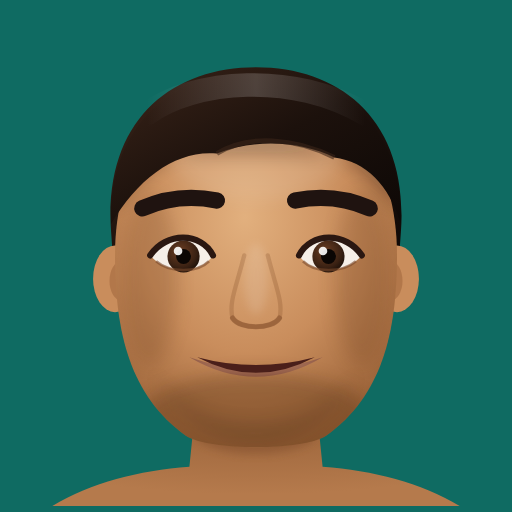
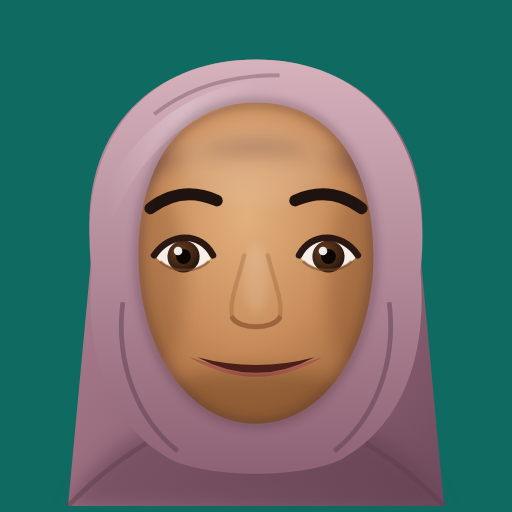
v1.5.0: Nara perempuan berhijab + ikon baru
Claude-Session: https://claude.ai/code/session_01MYJwr1VfoWsd2GyhHBrFqM

diff --git a/index.html b/index.html
@@ -134,66 +134,66 @@ textarea{flex:1;min-width:0;resize:none;border:1px solid var(--line);border-radi
       <svg class="face" id="face" viewBox="0 0 120 120" role="img" aria-label="Wajah Nara">
         <defs>
           <radialGradient id="skinG" cx="46%" cy="36%" r="68%"><stop offset="0" stop-color="#e2b07e"/><stop offset=".55" stop-color="#c98d5c"/><stop offset="1" stop-color="#9a6238"/></radialGradient>
-          <radialGradient id="neckG" cx="50%" cy="0%" r="90%"><stop offset="0" stop-color="#8f5a33"/><stop offset="1" stop-color="#b57a4c"/></radialGradient>
-          <linearGradient id="hairG" x1="0" y1="0" x2="1" y2="1"><stop offset="0" stop-color="#3a2419"/><stop offset=".5" stop-color="#1c110c"/><stop offset="1" stop-color="#0d0806"/></linearGradient>
-          <linearGradient id="hairShine" x1="0" y1="0" x2="1" y2="0"><stop offset="0" stop-color="#ffffff" stop-opacity="0"/><stop offset=".5" stop-color="#ffffff" stop-opacity=".18"/><stop offset="1" stop-color="#ffffff" stop-opacity="0"/></linearGradient>
+          <linearGradient id="hijabG" x1="0" y1="0" x2="1" y2="1"><stop offset="0" stop-color="#b98d9a"/><stop offset=".45" stop-color="#9c6f80"/><stop offset="1" stop-color="#6f4a5c"/></linearGradient>
+          <linearGradient id="hijabInner" x1="0" y1="0" x2="0" y2="1"><stop offset="0" stop-color="#d6b2bd"/><stop offset="1" stop-color="#8e6274"/></linearGradient>
+          <linearGradient id="hijabShine" x1="0" y1="0" x2="1" y2="0"><stop offset="0" stop-color="#ffffff" stop-opacity="0"/><stop offset=".5" stop-color="#ffffff" stop-opacity=".22"/><stop offset="1" stop-color="#ffffff" stop-opacity="0"/></linearGradient>
           <radialGradient id="blushG"><stop offset="0" stop-color="#e2746a" stop-opacity=".55"/><stop offset="1" stop-color="#e2746a" stop-opacity="0"/></radialGradient>
           <radialGradient id="irisG" cx="40%" cy="35%" r="70%"><stop offset="0" stop-color="#6b3d22"/><stop offset=".7" stop-color="#3a2113"/><stop offset="1" stop-color="#1b0f08"/></radialGradient>
-          <radialGradient id="lipG" cx="50%" cy="30%" r="70%"><stop offset="0" stop-color="#b27a60"/><stop offset="1" stop-color="#8a5541"/></radialGradient>
+          <radialGradient id="lipG" cx="50%" cy="30%" r="70%"><stop offset="0" stop-color="#c0715f"/><stop offset="1" stop-color="#8e4a3e"/></radialGradient>
           <filter id="soft" x="-30%" y="-30%" width="160%" height="160%"><feGaussianBlur stdDeviation="2.2"/></filter>
           <filter id="soft1" x="-30%" y="-30%" width="160%" height="160%"><feGaussianBlur stdDeviation="1.1"/></filter>
-          <clipPath id="faceClip"><path d="M60 13 C84 13 96 32 96 56 C96 76 92 92 78 102 C72 106 48 106 42 102 C28 92 24 76 24 56 C24 32 36 13 60 13 Z"/></clipPath>
+          <clipPath id="faceClip"><path d="M60 15 C81 15 92 34 92 56 C92 80 79 101 60 101 C41 101 28 80 28 56 C28 34 39 15 60 15 Z"/></clipPath>
         </defs>
         <g class="face-float">
-          <!-- rambut belakang -->
-          <path d="M23 50 C21 22 38 8 60 8 C82 8 99 22 97 50 L96 64 C95 60 93 54 92 50 L28 50 C27 54 25 60 24 64 Z" fill="url(#hairG)"/>
-          <!-- leher & bahu -->
-          <path d="M45 90 L75 90 L77 110 C90 111 102 114 112 120 L8 120 C18 114 30 111 43 110 Z" fill="url(#neckG)"/>
-          <path d="M45 90 L75 90 L75 103 C68 108 52 108 45 103 Z" fill="#7a4a29" opacity=".45" filter="url(#soft1)"/>
-          <!-- telinga -->
-          <ellipse cx="24" cy="62" rx="5.6" ry="8.5" fill="#c98d5c"/><ellipse cx="25.6" cy="62.5" rx="3" ry="5" fill="#a86d43" opacity=".7"/>
-          <ellipse cx="96" cy="62" rx="5.6" ry="8.5" fill="#c98d5c"/><ellipse cx="94.4" cy="62.5" rx="3" ry="5" fill="#a86d43" opacity=".7"/>
+          <!-- juntaian hijab belakang & bahu -->
+          <path d="M18 56 C14 24 34 6 60 6 C86 6 106 24 102 56 L108 120 L12 120 Z" fill="url(#hijabG)"/>
+          <path d="M12 120 C20 106 30 100 42 98 L78 98 C90 100 100 106 108 120 Z" fill="#5e3e4e" opacity=".5" filter="url(#soft)"/>
           <!-- wajah -->
-          <path d="M60 13 C84 13 96 32 96 56 C96 76 92 92 78 102 C72 106 48 106 42 102 C28 92 24 76 24 56 C24 32 36 13 60 13 Z" fill="url(#skinG)"/>
+          <path d="M60 15 C81 15 92 34 92 56 C92 80 79 101 60 101 C41 101 28 80 28 56 C28 34 39 15 60 15 Z" fill="url(#skinG)"/>
           <g clip-path="url(#faceClip)">
-            <ellipse cx="60" cy="30" rx="22" ry="12" fill="#ffffff" opacity=".10" filter="url(#soft)"/>
-            <ellipse cx="60" cy="98" rx="30" ry="12" fill="#5c3418" opacity=".35" filter="url(#soft)"/>
-            <path d="M30 76 C36 96 48 104 60 104 C72 104 84 96 90 76 C86 92 74 99 60 99 C46 99 34 92 30 76 Z" fill="#2b1a12" opacity=".16" filter="url(#soft)"/>
-            <ellipse cx="33" cy="62" rx="7" ry="22" fill="#6b3d1e" opacity=".22" filter="url(#soft)"/>
-            <ellipse cx="87" cy="62" rx="7" ry="22" fill="#6b3d1e" opacity=".22" filter="url(#soft)"/>
-            <!-- bayangan rambut di dahi -->
-            <path d="M24 44 C34 30 46 26 60 26 C74 26 86 30 96 44 L96 30 L24 30 Z" fill="#1c110c" opacity=".3" filter="url(#soft)"/>
+            <ellipse cx="60" cy="32" rx="20" ry="11" fill="#ffffff" opacity=".10" filter="url(#soft)"/>
+            <ellipse cx="60" cy="96" rx="28" ry="11" fill="#5c3418" opacity=".35" filter="url(#soft)"/>
+            <ellipse cx="35" cy="62" rx="7" ry="22" fill="#6b3d1e" opacity=".25" filter="url(#soft)"/>
+            <ellipse cx="85" cy="62" rx="7" ry="22" fill="#6b3d1e" opacity=".25" filter="url(#soft)"/>
+            <path d="M28 44 C36 32 48 27 60 27 C72 27 84 32 92 44 L92 30 L28 30 Z" fill="#4a2f3b" opacity=".35" filter="url(#soft)"/>
           </g>
           <!-- pipi merona -->
-          <circle class="cheek" data-k="cheekL" cx="38" cy="70" r="9" fill="url(#blushG)" opacity="0"/>
-          <circle class="cheek" data-k="cheekR" cx="82" cy="70" r="9" fill="url(#blushG)" opacity="0"/>
+          <circle class="cheek" data-k="cheekL" cx="39" cy="70" r="9" fill="url(#blushG)" opacity="0"/>
+          <circle class="cheek" data-k="cheekR" cx="81" cy="70" r="9" fill="url(#blushG)" opacity="0"/>
           <!-- hidung -->
           <path d="M57 56 C55 64 53 68 54 72 C56 75 64 75 66 72 C67 68 65 64 63 56" fill="none" stroke="#8a552f" stroke-width="1.1" stroke-linecap="round" opacity=".3"/>
           <path d="M54 72 C56 75 64 75 66 72" fill="none" stroke="#7a4524" stroke-width="1.3" stroke-linecap="round" opacity=".45"/>
           <ellipse cx="60" cy="62" rx="3" ry="9" fill="#ffffff" opacity=".12" filter="url(#soft1)"/>
           <!-- alis -->
-          <path class="brow" data-k="browL" d="M31 44 Q40 40 50 42" stroke="#1f1310" stroke-width="4.2" stroke-linecap="round" fill="none"/>
-          <path class="brow" data-k="browR" d="M70 42 Q80 40 89 44" stroke="#1f1310" stroke-width="4.2" stroke-linecap="round" fill="none"/>
+          <path class="brow" data-k="browL" d="M33 44 Q41 38 50 42" stroke="#1f1310" stroke-width="3" stroke-linecap="round" fill="none"/>
+          <path class="brow" data-k="browR" d="M70 42 Q79 38 87 44" stroke="#1f1310" stroke-width="3" stroke-linecap="round" fill="none"/>
           <!-- mata -->
           <g class="eye" data-k="eyeL">
-            <path d="M33 56 C37 50 46 50 49 56 C46 61 37 61 33 56 Z" fill="#f6efe8"/>
+            <path d="M34 56 C38 50 46 50 49 56 C46 61 38 61 34 56 Z" fill="#f6efe8"/>
             <g class="pupil" data-k="pupL"><circle cx="41.5" cy="56.3" r="4.1" fill="url(#irisG)"/><circle cx="41.5" cy="56.3" r="1.9" fill="#0b0604"/><circle cx="40.1" cy="54.9" r="1.1" fill="#ffffff" opacity=".9"/></g>
-            <path d="M33 56 C37 50 46 50 49 56" fill="none" stroke="#2a1711" stroke-width="1.6" stroke-linecap="round"/>
-            <path d="M34.5 57.5 C38 60.5 45 60.5 48 57.5" fill="none" stroke="#7a4a2c" stroke-width=".7" opacity=".6"/>
+            <path d="M34 56 C38 50 46 50 49 56" fill="none" stroke="#2a1711" stroke-width="1.7" stroke-linecap="round"/>
+            <path d="M35.5 57.5 C38.5 60.5 45 60.5 48 57.5" fill="none" stroke="#7a4a2c" stroke-width=".7" opacity=".6"/>
           </g>
           <g class="eye" data-k="eyeR">
-            <path d="M71 56 C74 50 83 50 87 56 C83 61 74 61 71 56 Z" fill="#f6efe8"/>
+            <path d="M71 56 C74 50 82 50 86 56 C82 61 74 61 71 56 Z" fill="#f6efe8"/>
             <g class="pupil" data-k="pupR"><circle cx="78.5" cy="56.3" r="4.1" fill="url(#irisG)"/><circle cx="78.5" cy="56.3" r="1.9" fill="#0b0604"/><circle cx="77.1" cy="54.9" r="1.1" fill="#ffffff" opacity=".9"/></g>
-            <path d="M71 56 C74 50 83 50 87 56" fill="none" stroke="#2a1711" stroke-width="1.6" stroke-linecap="round"/>
-            <path d="M72 57.5 C75 60.5 82 60.5 85.5 57.5" fill="none" stroke="#7a4a2c" stroke-width=".7" opacity=".6"/>
+            <path d="M71 56 C74 50 82 50 86 56" fill="none" stroke="#2a1711" stroke-width="1.7" stroke-linecap="round"/>
+            <path d="M72 57.5 C75 60.5 81.5 60.5 84.5 57.5" fill="none" stroke="#7a4a2c" stroke-width=".7" opacity=".6"/>
           </g>
           <!-- bibir & mulut -->
           <path class="lips" data-k="lips" d="M43 82 Q60 92 77 82 Q60 88 43 82 Z" fill="url(#lipG)"/>
           <path class="mouth" data-k="mouth" d="M45 82 Q60 90 75 82 Q60 86 45 82 Z" fill="#4a1f1a"/>
-          <!-- rambut depan (poni) -->
-          <path d="M23 48 C22 24 38 9 60 9 C82 9 98 24 97 48 C94 38 88 32 80 31 C72 27 60 26 50 30 C40 29 30 36 23 48 Z" fill="url(#hairG)"/>
-          <path d="M32 20 C44 11 70 9 88 20" fill="none" stroke="url(#hairShine)" stroke-width="6" stroke-linecap="round"/>
-          <path d="M50 30 C58 25 70 26 80 31" fill="none" stroke="#3a2419" stroke-width="1.2" opacity=".6"/>
+          <!-- hijab depan: bingkai wajah (lubang wajah dengan evenodd) -->
+          <path fill-rule="evenodd" fill="url(#hijabInner)" d="M18 60 C14 24 34 6 60 6 C86 6 106 24 102 60 C104 84 96 100 82 108 C72 113 48 113 38 108 C24 100 16 84 18 60 Z M60 17 C80 17 90 34 90 56 C90 79 78 99 60 99 C42 99 30 79 30 56 C30 34 40 17 60 17 Z"/>
+          <!-- lipatan & kilau kain -->
+          <path d="M22 44 C30 26 44 16 60 14" fill="none" stroke="url(#hijabShine)" stroke-width="5" stroke-linecap="round"/>
+          <path d="M26 68 C24 84 30 98 40 106" fill="none" stroke="#5e3e4e" stroke-width="1.2" opacity=".5"/>
+          <path d="M94 68 C96 84 90 98 80 106" fill="none" stroke="#5e3e4e" stroke-width="1.2" opacity=".5"/>
+          <path d="M34 20 C44 12 56 10 66 10" fill="none" stroke="#5e3e4e" stroke-width="1" opacity=".35"/>
+          <path d="M88 104 C98 110 104 116 108 120" fill="none" stroke="#5e3e4e" stroke-width="1.2" opacity=".5"/>
+          <path d="M32 104 C22 110 16 116 12 120" fill="none" stroke="#5e3e4e" stroke-width="1.2" opacity=".5"/>
+          <!-- bayangan tepi hijab ke wajah -->
+          <path d="M60 17 C80 17 90 34 90 56 C90 79 78 99 60 99 C42 99 30 79 30 56 C30 34 40 17 60 17 Z" fill="none" stroke="#3b2430" stroke-width="2.4" opacity=".28" filter="url(#soft1)"/>
         </g>
       </svg>
     </div>
@@ -301,13 +301,13 @@ textarea{flex:1;min-width:0;resize:none;border:1px solid var(--line);border-radi
 <script>
 (function(){
 'use strict';
-const APP_VER='1.4.1';
+const APP_VER='1.5.0';
 const $=id=>document.getElementById(id);
 const col=$('col'), main=$('main'), input=$('input'), sendBtn=$('sendBtn'), hint=$('hint');
 
 const DEFAULTS={
   apiKey:'', modelQuick:'claude-haiku-5-5', modelFull:'claude-sonnet-5-5', quick:true,
-  name:'Nara', persona:'Laki-laki. Hangat, santai, cerdas, dan jujur. Bicara seperti sahabat laki-laki yang bisa diandalkan, bukan seperti robot. Panggil saya Furqan.',
+  name:'Nara', persona:'Perempuan berhijab. Hangat, santai, cerdas, sopan, dan jujur. Bicara seperti sahabat yang bisa diandalkan, bukan seperti robot. Panggil saya Furqan.',
   notes:'', summary:'', voice:'', rate:1, speak:true,
   kasirUrl:'', kasirKey:'', syncUrl:'', syncKey:'', requests:[], updatedAt:0
 };
@@ -483,7 +483,7 @@ const TOOLS=[
 // ---------- prompt ----------
 function systemPrompt(){
   const now=new Date().toLocaleString('id-ID',{weekday:'long',day:'numeric',month:'long',year:'numeric',hour:'2-digit',minute:'2-digit'});
-  return `Kamu adalah ${S.name}, laki-laki, asisten pribadi Furqan. Furqan adalah pemilik studio foto PURE MOTRET di Kota Palu, Sulawesi Tengah, dengan dua cabang: S.Parman (kode SP) dan Pue Bongo (kode PB). Asisten keuangannya bernama Riang (di S.Parman).
+  return `Kamu adalah ${S.name}, perempuan berhijab, asisten pribadi Furqan. Furqan adalah pemilik studio foto PURE MOTRET di Kota Palu, Sulawesi Tengah, dengan dua cabang: S.Parman (kode SP) dan Pue Bongo (kode PB). Asisten keuangannya bernama Riang (di S.Parman).
 Kepribadian dan gaya bicaramu: ${S.persona}
 Sekarang: ${now} (WITA). Tanggal hari ini: ${ymd(new Date())}.
 
